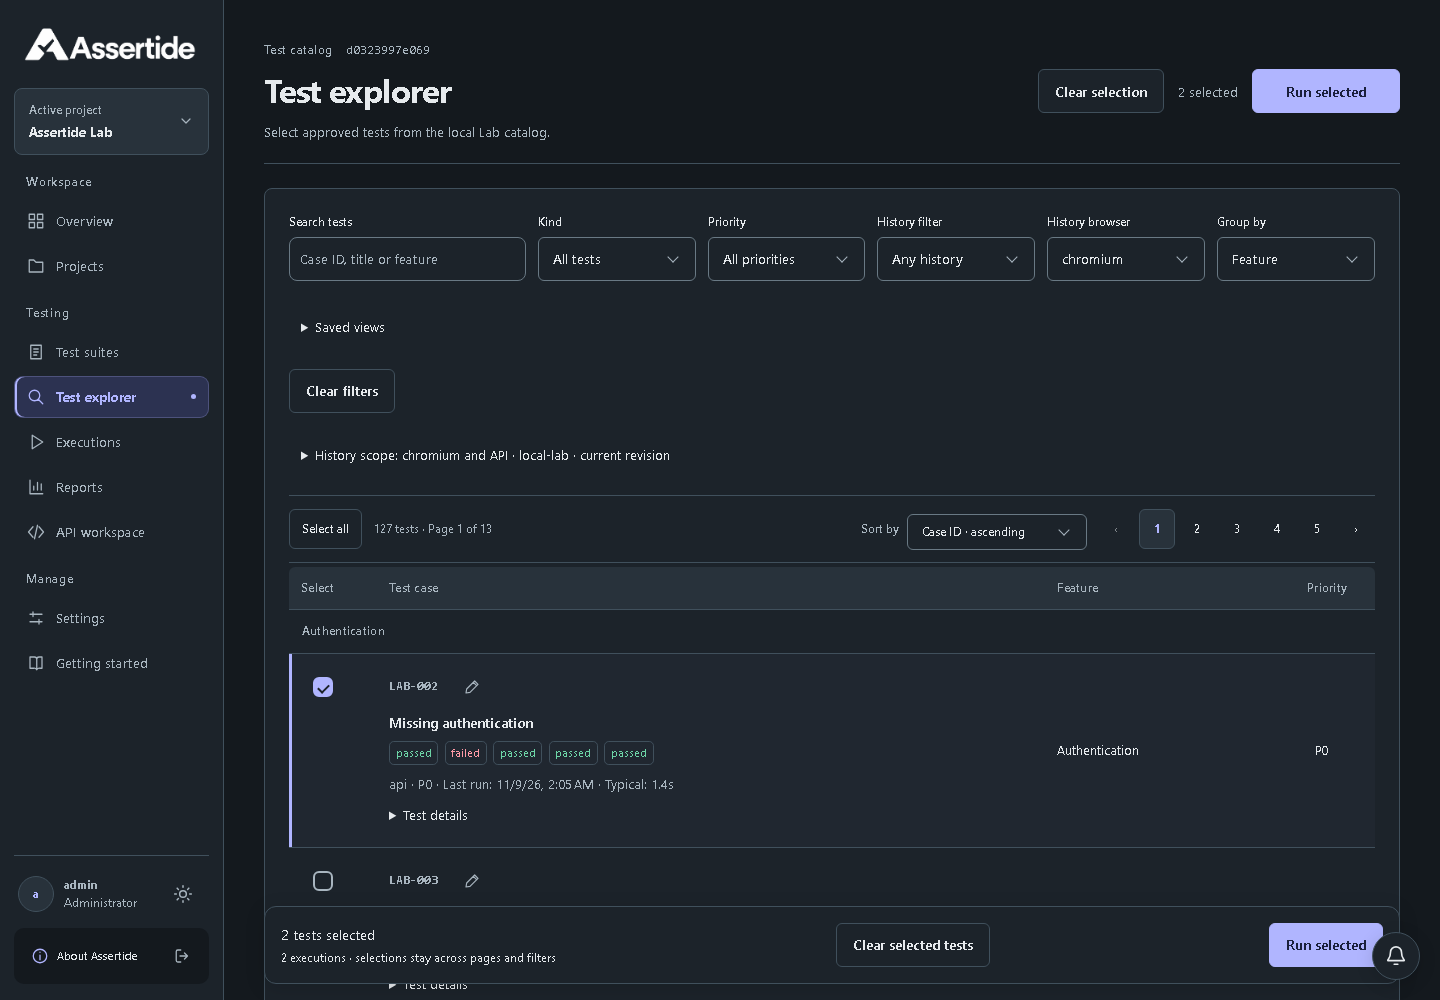
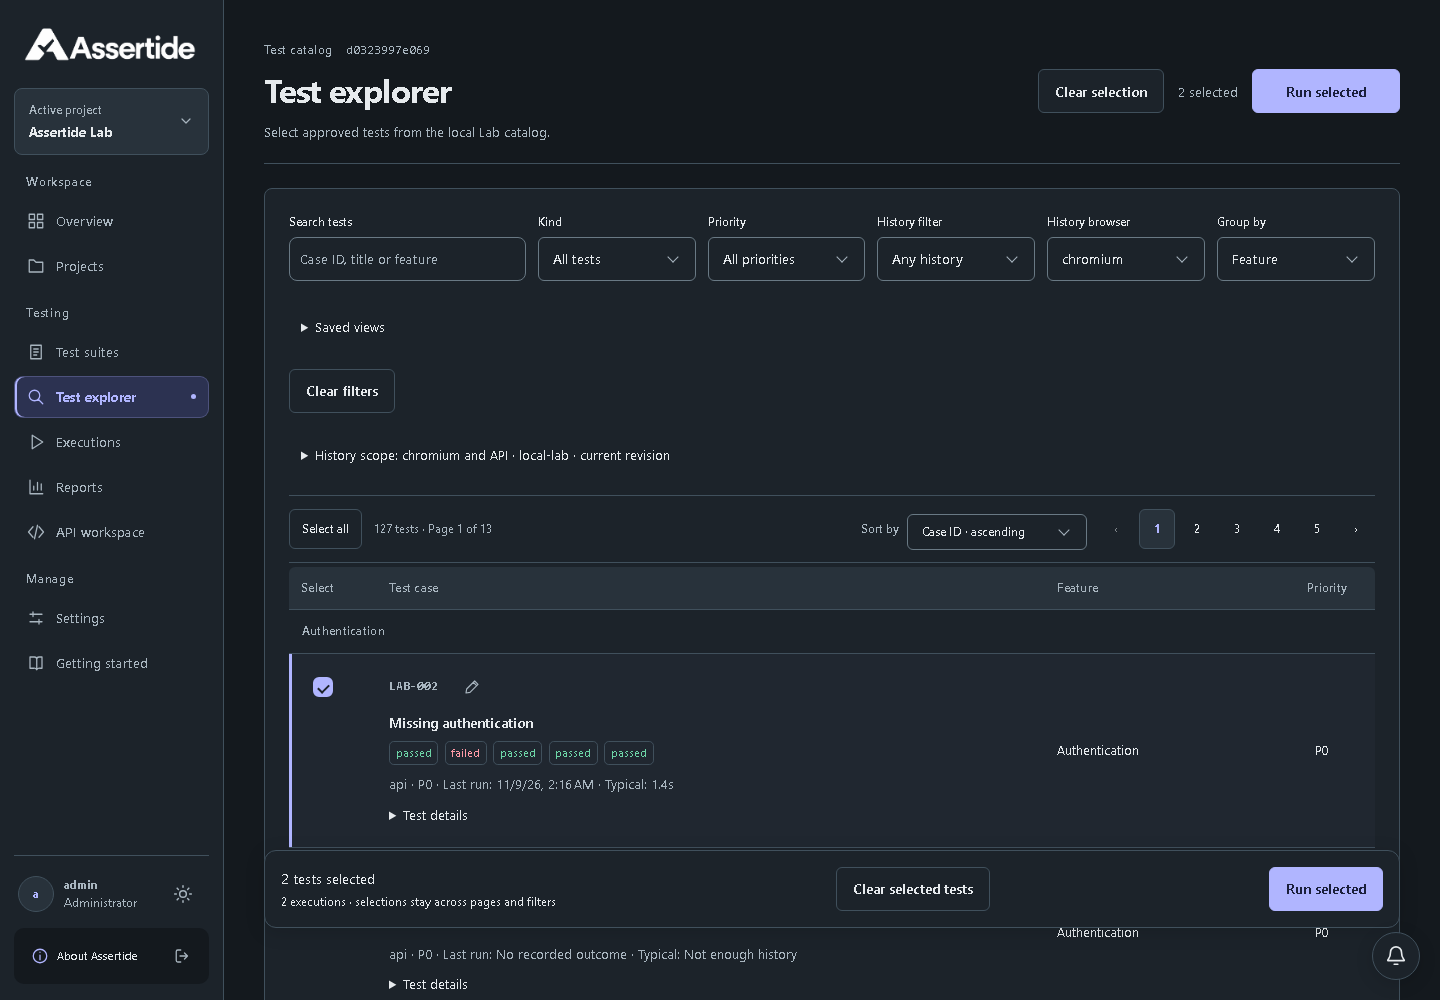
fix: keep run selection actions clear of notifications

Changed region(s): [[0.875, 0.868, 0.9688, 0.992], [0.1875, 0.868, 0.375, 0.961], [0.5938, 0.868, 0.6875, 0.961]]

diff --git a/packages/automation/ui/pages/run-workflows.page.ts b/packages/automation/ui/pages/run-workflows.page.ts
@@ -55,6 +55,24 @@ export class RunWorkflowsPage {
   public refreshWorkspace(): Promise<void> {
     return this.page.getByRole('button', { name: 'Refresh execution', exact: true }).click();
   }
+  public async selectionClearsNotifications(): Promise<boolean> {
+    const action = await this.page
+      .locator('.selection-bar')
+      .getByRole('button', { name: 'Run selected', exact: true })
+      .boundingBox();
+    const bell = await this.page
+      .getByRole('button', { name: 'Notification history', exact: true })
+      .boundingBox();
+    if (!action || !bell) {
+      return false;
+    }
+    return (
+      action.x + action.width <= bell.x ||
+      bell.x + bell.width <= action.x ||
+      action.y + action.height <= bell.y ||
+      bell.y + bell.height <= action.y
+    );
+  }
   private async openViews(): Promise<void> {
     const views = this.page.locator('details.view-options');
     if (!(await views.evaluate((element) => element.hasAttribute('open')))) {

diff --git a/packages/automation/platform/run-workflows.spec.ts b/packages/automation/platform/run-workflows.spec.ts
@@ -32,12 +32,14 @@ test.describe('Explorer and investigation workflows', () => {
     await expect(workflows.historyFilter()).toHaveValue('never');
     await expect(workflows.grouping()).toHaveValue('feature');
     await expect(catalog.selection(D.lifecycle)).toBeChecked();
+    expect(await workflows.selectionClearsNotifications()).toBe(true);
     await catalog.openConfiguration();
     await expect(workflows.configuration()).toContainText('Not enough history');
     await viewport(page, 'mobile');
     expect(await fitsViewport(page)).toBe(true);
     await workflows.closeConfiguration();
     await expect(catalog.startButtons.first()).toBeFocused();
+    expect(await workflows.selectionClearsNotifications()).toBe(true);
   });
   test('recorded outcomes populate history, support comparison and open private API evidence', async ({
     page,

diff --git a/apps/web/src/app/pages/explorer.ts b/apps/web/src/app/pages/explorer.ts
@@ -28,7 +28,7 @@ import { readSelectionDraft, writeSelectionDraft } from '../core/selection-draft
       }
       .selection-bar {
         position: sticky;
-        bottom: 1rem;
+        bottom: 4.5rem;
         z-index: 8;
         display: flex;
         justify-content: space-between;
